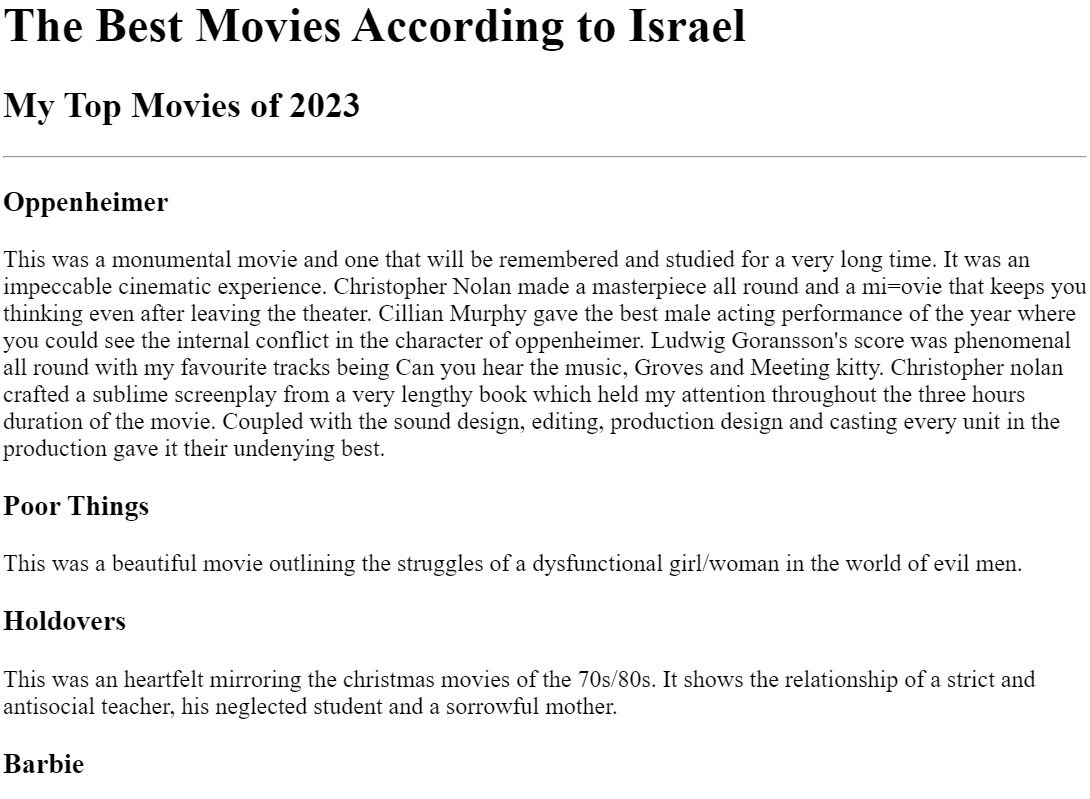
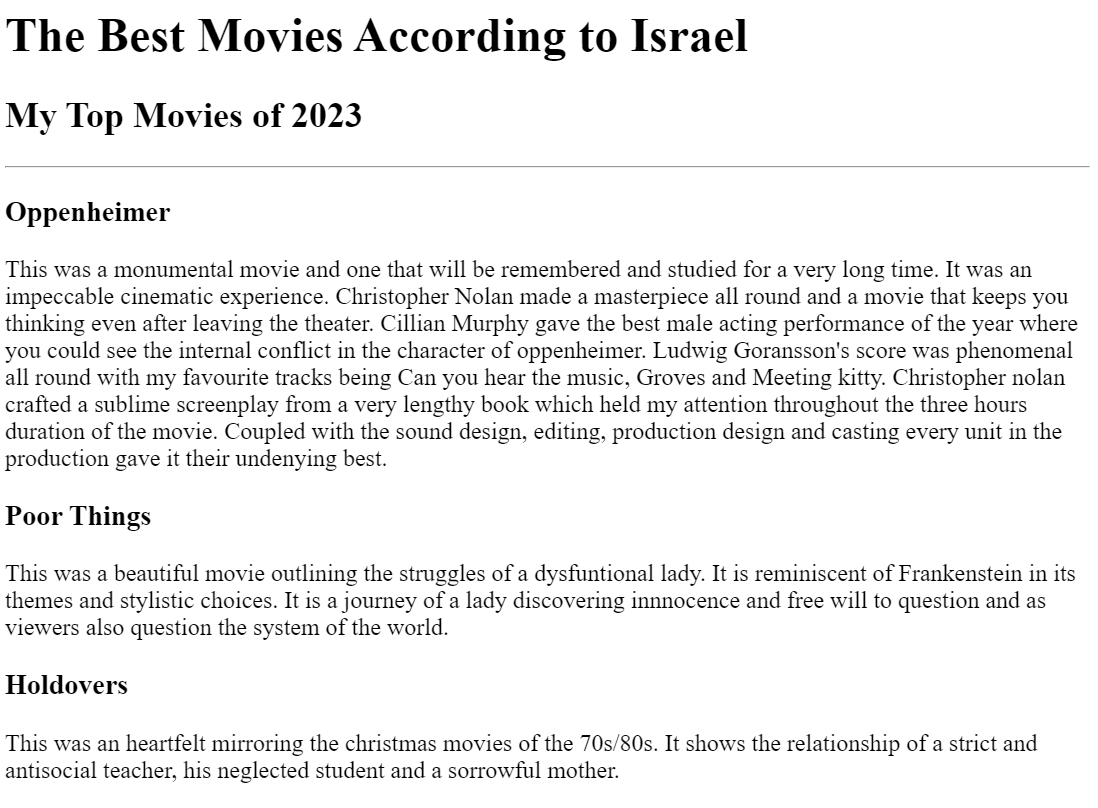
Add files via upload

diff --git a/public/movie-ranking.html b/public/movie-ranking.html
@@ -2,9 +2,9 @@
 <h2>My Top Movies of 2023</h2>
 <hr />
 <h3>Oppenheimer</h3>
-<p>This was a monumental movie and one that will be remembered and studied for a very long time. It was an impeccable cinematic experience. Christopher Nolan made a masterpiece all round and a mi=ovie that keeps you thinking even after leaving the theater. Cillian Murphy gave the best male acting performance of the year where you could see the internal conflict in the character of oppenheimer. Ludwig Goransson's score was phenomenal all round with my favourite tracks being Can you hear the music, Groves and Meeting kitty. Christopher nolan crafted a sublime screenplay from a very lengthy book which held my attention throughout the three hours duration of the movie. Coupled with the sound design, editing, production design and casting every unit in the production gave it their undenying best.</p>
+<p>This was a monumental movie and one that will be remembered and studied for a very long time. It was an impeccable cinematic experience. Christopher Nolan made a masterpiece all round and a movie that keeps you thinking even after leaving the theater. Cillian Murphy gave the best male acting performance of the year where you could see the internal conflict in the character of oppenheimer. Ludwig Goransson's score was phenomenal all round with my favourite tracks being Can you hear the music, Groves and Meeting kitty. Christopher nolan crafted a sublime screenplay from a very lengthy book which held my attention throughout the three hours duration of the movie. Coupled with the sound design, editing, production design and casting every unit in the production gave it their undenying best.</p>
 <h3>Poor Things</h3>
-<p>This was a beautiful movie outlining the struggles of a dysfunctional girl/woman in the world of evil men.</p>
+<p>This was a beautiful movie outlining the struggles of a dysfuntional lady. It is reminiscent of Frankenstein in its themes and stylistic choices. It is a journey of a lady discovering innnocence and free will to question and as viewers also question the system of the world.</p>
 <h3>Holdovers</h3>
 <p>This was an heartfelt mirroring the christmas movies of the 70s/80s. It shows the relationship of a strict and antisocial teacher, his neglected student and a sorrowful mother.</p>
 <h3>Barbie</h3>

diff --git a/public/about.html b/public/about.html
@@ -1,20 +1,5 @@
 <h1>About Me</h1>
-<p>Lorem ipsum dolor sit amet, consectetur adipiscing elit. Pellentesque sem tellus, sagittis non odio nec, interdum
-  elementum lacus. Ut ac justo eget risus sollicitudin fringilla sed ut leo. Ut condimentum elit nec fermentum lobortis.
-  Quisque tincidunt quam nec tincidunt ullamcorper. Integer vitae pretium justo. In placerat volutpat pellentesque.
-  Etiam
-  gravida quam vitae odio pulvinar imperdiet. Vivamus venenatis gravida purus sit amet aliquet. Ut in nibh sed quam
-  laoreet lacinia. Cras cursus ut dui vitae posuere. Vivamus volutpat urna vitae odio fringilla placerat. Nulla vel
-  rhoncus sapien. Phasellus at interdum enim.</p>
+<p>Hello! I'm Israel Ikpo, a passionate web developer and mechanical engineer based in Nigeria. With a background in mecahanical engineering, I have developed a strong interest in  machine design, web development and decentalized finance(DeFI).</p>
 
-<p>Curabitur elementum sagittis mollis. In porta nec quam ut semper. Nulla volutpat neque quis lacus mattis eleifend.
-  Phasellus et congue odio. Mauris tristique, nisl quis porttitor porttitor, tortor ante mattis ex, at dictum tortor
-  dolor
-  ut sem. Nullam nec libero non ex porta vulputate a eu sapien. In nec bibendum mauris. Fusce iaculis lectus vel magna
-  laoreet gravida.</p>
+<p>In addition to my professional endeavors, I enjoy football, cooking, and watching movies and tv shows. I believe in hardwork, perseverance and discipline.</p>
 
-<p>Donec euismod vestibulum arcu, a blandit metus mattis ultrices. Integer quis hendrerit justo. Maecenas sed tempor mi.
-  Fusce egestas urna leo. Mauris viverra sem sed libero egestas, volutpat aliquet magna porta. Quisque id diam sed ipsum
-  interdum sollicitudin id quis augue. Donec congue nisl nec massa ornare imperdiet quis quis odio. Etiam ut volutpat
-  nisl. Vestibulum hendrerit justo nibh, eget consequat magna fermentum finibus. Pellentesque et urna fringilla, rutrum
-  neque in, varius leo. Vestibulum efficitur id massa eget pellentesque.</p>

diff --git a/public/birthday-invite.html b/public/birthday-invite.html
@@ -10,4 +10,4 @@
     <li>An appetite</li>
 </ul>
 <h3>This is where you need to be:</h3>
-<a href="https://www.google.com/maps/@35.7040744,139.5577317,3a,75y,289.6h,87.01t,0.72r/data=!3m6!1e1!3m4!1sgT28ssf0BB2LxZ63JNcL1w!2e0!7i13312!8i6656">My Location Google Map Link</a>
+<a href="https://www.google.com/maps/place/Federal+University+of+Technology+Akure/@7.309847,5.122471,14.97z/data=!4m10!1m2!2m1!1sFederal+University+Of+Technology+Akure!3m6!1s0x1047894972021f41:0xd84c4e01abf1d646!8m2!3d7.307042!4d5.1397549!15sCiZGZWRlcmFsIFVuaXZlcnNpdHkgT2YgVGVjaG5vbG9neSBBa3VyZSIDiAEBkgEKdW5pdmVyc2l0eeABAA!16zL20vMDNxeXFk?entry=ttu">My Location Google Map Link</a>
